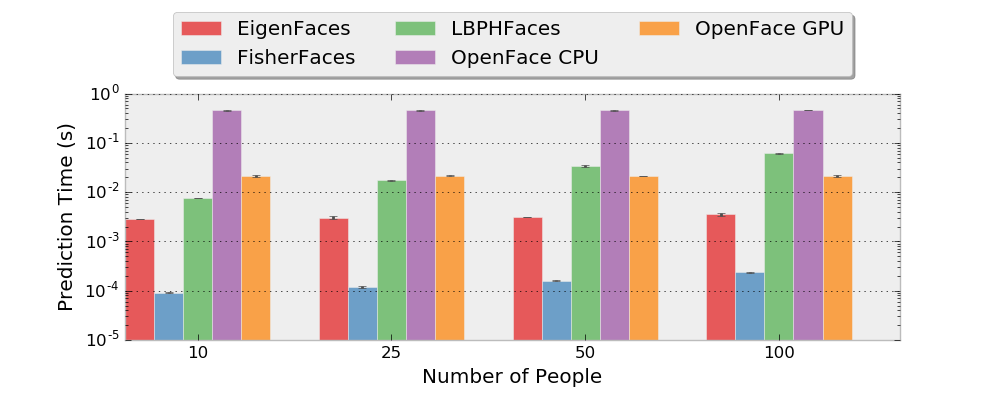
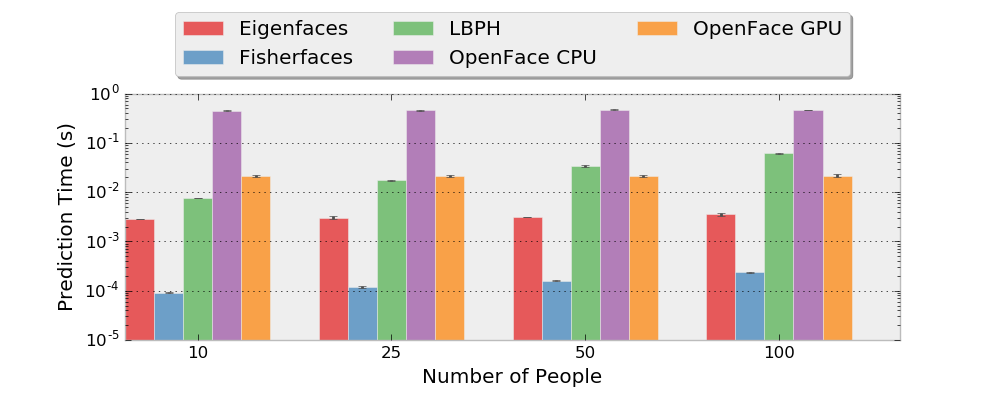
lfw-classification: Just use a linear SVM instead of grid search.

diff --git a/evaluation/lfw-classification.py b/evaluation/lfw-classification.py
@@ -80,12 +80,12 @@ def main():
     lfwPplCache = os.path.join(args.workDir, 'lfwPpl.pkl')
     lfwPpl = cacheToFile(lfwPplCache)(getLfwPplSorted)(args.lfwAligned)
 
-    print("EigenFaces Experiment")
+    print("Eigenfaces Experiment")
     cls = cv2.createEigenFaceRecognizer()
     cache = os.path.join(args.workDir, 'eigenFacesExp.pkl')
     eigenFacesDf = cacheToFile(cache)(opencvExp)(lfwPpl, cls)
 
-    print("FisherFaces Experiment")
+    print("Fisherfaces Experiment")
     cls = cv2.createFisherFaceRecognizer()
     cache = os.path.join(args.workDir, 'fisherFacesExp.pkl')
     fishFacesDf = cacheToFile(cache)(opencvExp)(lfwPpl, cls)
@@ -97,14 +97,7 @@ def main():
 
     print("OpenFace CPU/SVM Experiment")
     net = openface.TorchNeuralNet(args.networkModel, 96, cuda=False)
-    svmParamGrid = [
-        {'C': [1, 10, 100, 1000],
-            'kernel': ['linear']},
-        {'C': [1, 10, 100, 1000],
-            'gamma': [0.001, 0.0001],
-            'kernel': ['rbf']}
-    ]
-    cls = GridSearchCV(SVC(), svmParamGrid, cv=5)
+    cls = SVC(kernel='linear', C=1)
     cache = os.path.join(args.workDir, 'openface.cpu.svm.pkl')
     openfaceCPUsvmDf = cacheToFile(cache)(openfaceExp)(lfwPpl, net, cls)
 
@@ -281,13 +274,13 @@ def plotAccuracy(workDir, eigenFacesDf, fishFacesDf, lbphFacesDf,
     fig = plt.figure(figsize=(10,4))
     ax = fig.add_subplot(111)
     plt.bar(indices, eigenFacesDf['accsMean'], barWidth,
-            yerr=eigenFacesDf['accsStd'], label='EigenFaces',
+            yerr=eigenFacesDf['accsStd'], label='Eigenfaces',
             color=colors[0], ecolor='0.3', alpha=alpha)
     plt.bar(indices+barWidth, fishFacesDf['accsMean'], barWidth,
-            yerr=fishFacesDf['accsStd'], label='FisherFaces',
+            yerr=fishFacesDf['accsStd'], label='Fisherfaces',
             color=colors[1], ecolor='0.3', alpha=alpha)
     plt.bar(indices+2*barWidth, lbphFacesDf['accsMean'], barWidth,
-            yerr=lbphFacesDf['accsStd'], label='LBPHFaces',
+            yerr=lbphFacesDf['accsStd'], label='LBPH',
             color=colors[2], ecolor='0.3', alpha=alpha)
     plt.bar(indices+3*barWidth, openfaceCPUsvmDf['accsMean'], barWidth,
             yerr=openfaceCPUsvmDf['accsStd'], label='OpenFace',
@@ -319,13 +312,13 @@ def plotTrainingTime(workDir, eigenFacesDf, fishFacesDf, lbphFacesDf,
     fig = plt.figure(figsize=(10,4))
     ax = fig.add_subplot(111)
     plt.bar(indices, eigenFacesDf['trainTimeSecMean'], barWidth,
-            yerr=eigenFacesDf['trainTimeSecStd'], label='EigenFaces',
+            yerr=eigenFacesDf['trainTimeSecStd'], label='Eigenfaces',
             color=colors[0], ecolor='0.3', alpha=alpha)
     plt.bar(indices+barWidth, fishFacesDf['trainTimeSecMean'], barWidth,
-            yerr=fishFacesDf['trainTimeSecStd'], label='FisherFaces',
+            yerr=fishFacesDf['trainTimeSecStd'], label='Fisherfaces',
             color=colors[1], ecolor='0.3', alpha=alpha)
     plt.bar(indices+2*barWidth, lbphFacesDf['trainTimeSecMean'], barWidth,
-            yerr=lbphFacesDf['trainTimeSecStd'], label='LBPHFaces',
+            yerr=lbphFacesDf['trainTimeSecStd'], label='LBPH',
             color=colors[2], ecolor='0.3', alpha=alpha)
     plt.bar(indices+3*barWidth, openfaceCPUsvmDf['trainTimeSecMean'], barWidth,
             yerr=openfaceCPUsvmDf['trainTimeSecStd'],
@@ -360,13 +353,13 @@ def plotPredictionTime(workDir, eigenFacesDf, fishFacesDf, lbphFacesDf,
     fig = plt.figure(figsize=(10,4))
     ax = fig.add_subplot(111)
     plt.bar(indices, eigenFacesDf['predictTimeSecMean'], barWidth,
-            yerr=eigenFacesDf['predictTimeSecStd'], label='EigenFaces',
+            yerr=eigenFacesDf['predictTimeSecStd'], label='Eigenfaces',
             color=colors[0], ecolor='0.3', alpha=alpha)
     plt.bar(indices+barWidth, fishFacesDf['predictTimeSecMean'], barWidth,
-            yerr=fishFacesDf['predictTimeSecStd'], label='FisherFaces',
+            yerr=fishFacesDf['predictTimeSecStd'], label='Fisherfaces',
             color=colors[1], ecolor='0.3', alpha=alpha)
     plt.bar(indices+2*barWidth, lbphFacesDf['predictTimeSecMean'], barWidth,
-            yerr=lbphFacesDf['predictTimeSecStd'], label='LBPHFaces',
+            yerr=lbphFacesDf['predictTimeSecStd'], label='LBPH',
             color=colors[2], ecolor='0.3', alpha=alpha)
     plt.bar(indices+3*barWidth, openfaceCPUsvmDf['predictTimeSecMean'], barWidth,
             yerr=openfaceCPUsvmDf['predictTimeSecStd'],
